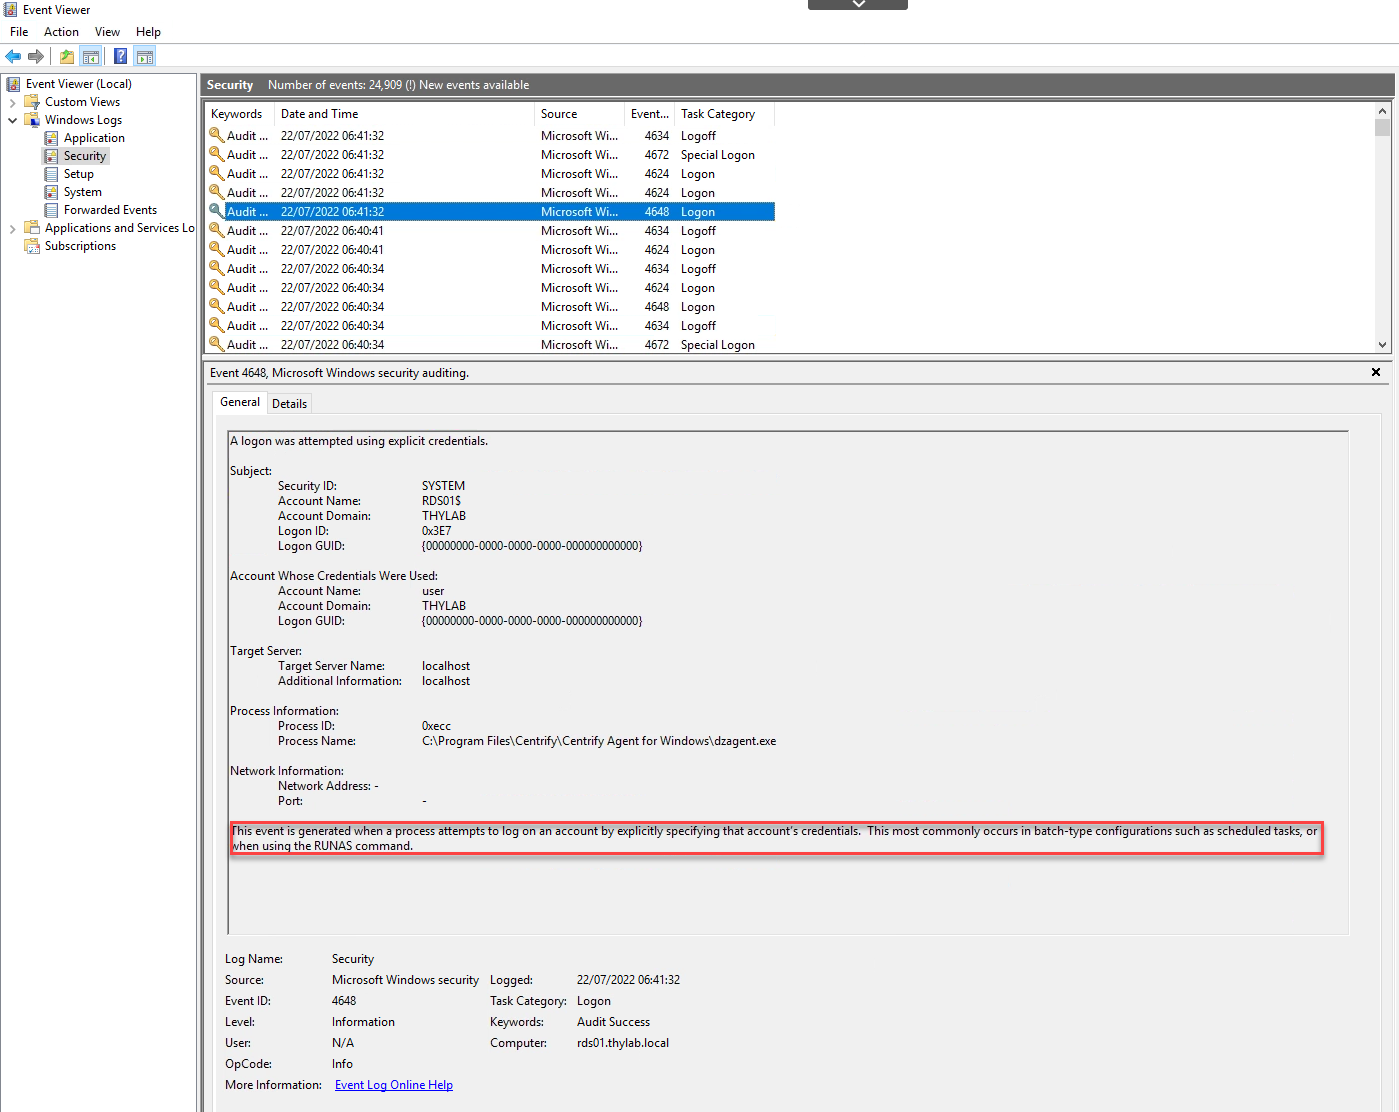
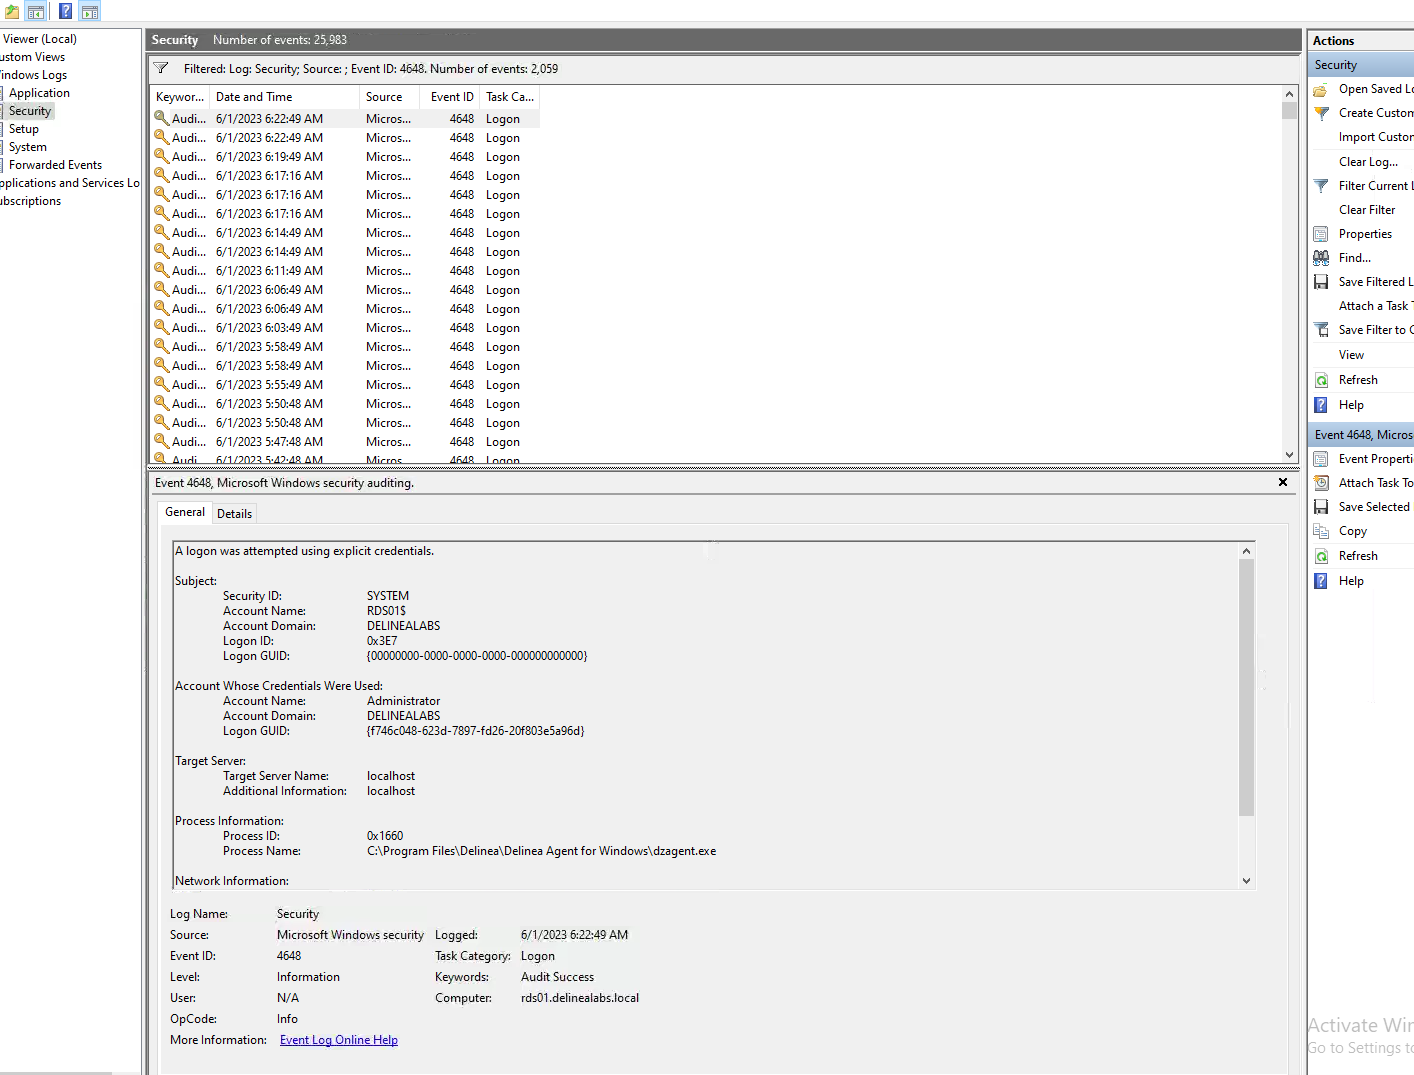
Mod 3 ServerPAM

Changed region(s): [[0.0, 0.0, 1.0, 1.0], [0.0, 0.9823, 0.0615, 1.0]]

diff --git a/docs/srvpam/mod3/mod3.md b/docs/srvpam/mod3/mod3.md
@@ -1,11 +1,11 @@
 # Security logs
 
-As described in the JIT module of the lab, all actions will be logged in the system with respect to security (on CentOS Linux /var/log/secure). Using the sudo command, all commands that are run under the account, will be logged and shown in the log file. This gives the security and IT team the possibility to track who has run commands with elevated privileges.
+As described in the JIT module of the lab, all actions will be logged in the system with respect to security (on web-linux /var/log/secure). Using the sudo command, all commands that are run under the account, will be logged and shown in the log file. This gives the security and IT team the possibility to track who has run commands with elevated privileges.
 A problem is that such an account, which is added to the */etc/sudoers* file, can run **ANY COMMAND** with the ``sudo`` commands by default. Limiting what can be run using the sudo command, is done by changing the file **/etc/sudoers**. It's going to be hard to maintain this file on 20+ Linux systems. To know more on this file, read [this document](https://kifarunix.com/run-only-specific-commands-with-sudo-in-linux/).
 
 ## Security logging on Linux
 
-To show this security logging process, after getting onto the client machine, open the Putty sessions to CentOS.delinealabs.local and login as **adminuser** with the password **Delinea/4u**. This is a local account and has the rights to run the ``sudo`` command to get elevated rights. 
+To show this security logging process, after getting onto the client machine, open the Putty sessions to **db-linux.delinealabs.local** and login as **adminuser** with the password **Delinea/4u**. This is a local account and has the rights to run the ``sudo`` command to get elevated rights. 
 Run the command ``sudo yum update zip`` and see that after providing the password the command is executed
 
 ![Security Log](images/lab001.png)
@@ -16,7 +16,7 @@ Problem is that even a command like ``sudo yum update`` is honored to be run.
     If you run this command, please cancel the action by typing "N" at the question, or be faced to possibly wait a 5 - 10 minutes as the system WILL update ALL packages
 
 
-Now try the dzinfo command and see that the account is "unknown" to the Server PAM solution (no roles assigned and no privileged command rights). So running ``dzdo yum update zip`` will have no effect. It will show an error.
+Now try the ``dzinfo`` command and see that the account is "unknown" to the Server PAM solution (no roles assigned and no privileged command rights). So running ``dzdo yum update zip`` will have no effect. It will show an error.
 
 ![Security Log](images/lab002.png)
 
@@ -24,18 +24,17 @@ Run the command ``sudo cat /var/log/secure`` and see that you can see the securi
 
 ![Security Log](images/lab003.png)
 
-As mentioned in the other parts, this is not a wanted scenario. This is a possible big security gap! Run the command ``sudo tail -f /var/log/secure`` and open a new Putty session where you login as **user@delinealabs.local**. Position the two putty screen so that they don't overlap each other so you can see the secure log in realtime
+As mentioned in the other parts, this is not a wanted scenario. This is a possible big security gap! Run the command ``sudo tail -f /var/log/secure`` and open a new Putty session where you login as **afoster@delinealabs.local**. Position the two putty screen so that they don't overlap each other so you can see the secure log in realtime
 
 ![Security Log](images/lab004.png)
 
 Now run the following commands one after the other and see the log messages as they appear in the log file.
-1. ``sudo yum update zip``; you have to provide the password of the user@delinealabs.local account, but will get an error that the account is not in the suoders file
-1. ``dzdo yum update zip``; you will have to provide the password of the user@delinealabs.local account, and the command will be executed (as we have seen earlier this is one of the command that has been allowed by the system)
-1. ``dzdo yum update vim``; as this command is not allowed by the system, there is nothing to be logged in the security log. The command is already blocked **BEFORE** execution
+
+1. ``sudo yum update zip``; you have to provide the password of the afoster@delinealabs.local account, but will get an error that the account is not in the suoders file
+1. ``dzdo yum update zip``; you will have to provide the MFA Challenges of the afoster@delinealabs.local account, and the command will be executed (as we have seen earlier this is one of the command that has been allowed by the system)
+1. ``dzdo yum update vim``; as this command is not allowed by the system
 
 ![Security Log](images/lab005.png)
-
-![Security Log](images/lab006.png)
 
 The last situation, a more controlled AND scalable configuration is what is recommended. This makes it possible to have *AS LITTLE AS POSSIBLE* local accounts on Linux machines so the attack surface can be reduced to a maximum. Only those accounts that should have access to the Linux machines will have access and can only run those commands they are allowed to run. An extra security layer can be added by requested an extra password authentication (as example).
 
@@ -43,10 +42,13 @@ Close all Putty sessions
 
 ## Security logging on Windows systems
 
-For Windows Systems this will be logged in the Eventviewer. Open the console of the RDS01 and Right click the Eventviewer on the desktop and select **Run with Privileges...**. Open the security information and search for EventID **4624**. That event shows an Impersonation event and the program that has run the impersonation process (*C:\Program Files\Centrify\Centrify Agent for Windows\dzagent.exe*)
+For Windows Systems this will be logged in the Event Viewer. Open the console of the RDS01 and Right click the Event Viewer on the desktop and select **Run with Privileges...**. Open the security information and search for EventID **4624**. That event shows an Impersonation event and the program that has run the impersonation process (*C:\Program Files\Centrify\Centrify Agent for Windows\dzagent.exe*)
 
 ![Security Log](images/lab007.png)
 
-An Event with ID **4848** (RUNAS) is also shown, which is exactly what the system does when the **Run with Privilege...** is doing, as long as it has been allowed by the configuration.
+An Event with ID **4648** (RUNAS) is also shown, which is exactly what the system does when the **Run with Privilege...** is doing, as long as it has been allowed by the configuration.
 
 ![Security Log](images/lab008.png)
+
+!!!tip
+    To quickly find these event IDs, use filters in Event Viewer
